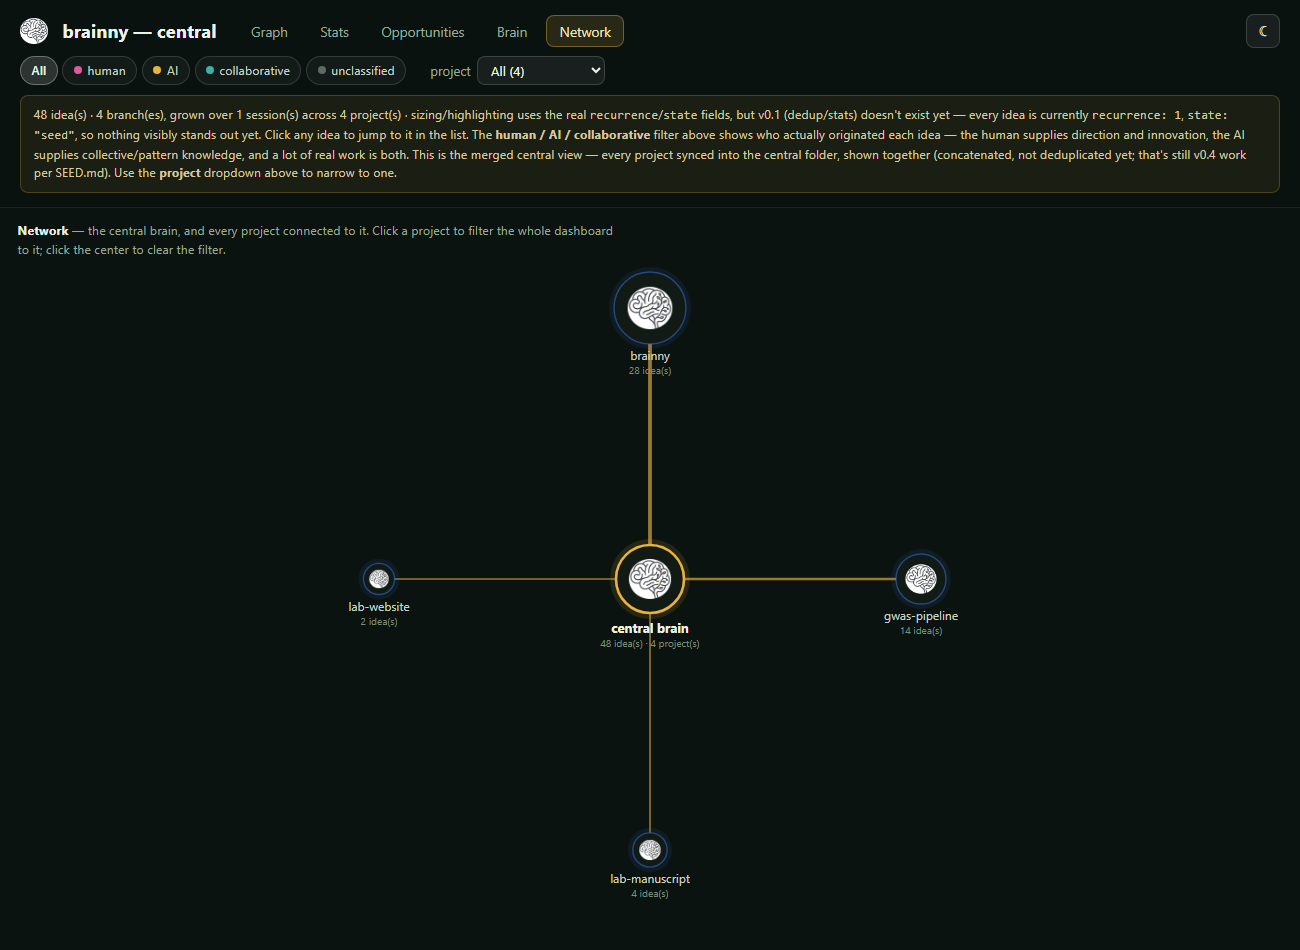
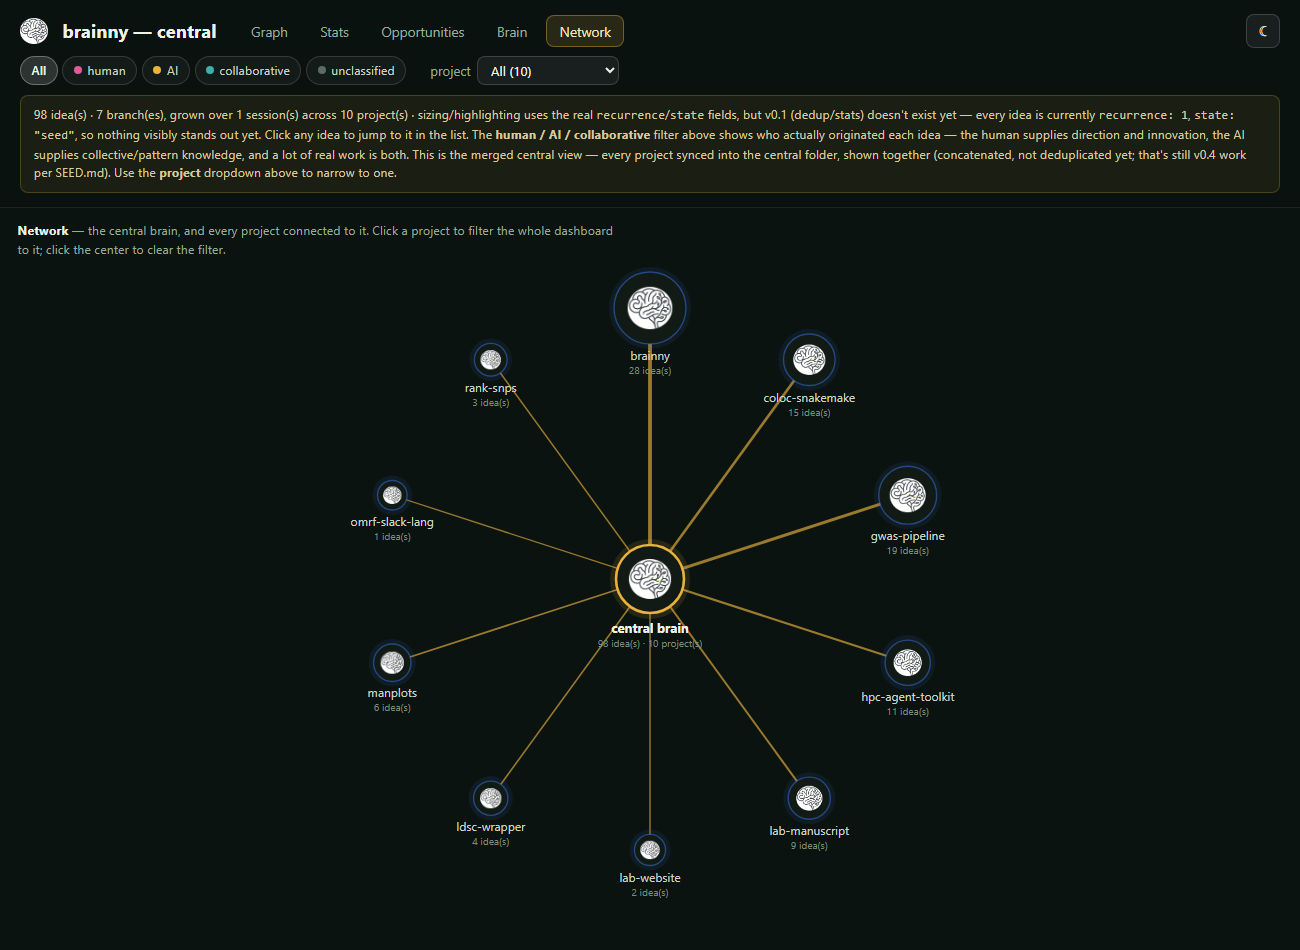
Denser fake central folder for the Network tab README screenshot
4 fabricated projects read as sparse for a README hero shot -- expanded
to 10 (same discipline: built through capture()/build_merged_graph()
directly, never hand-edited JSON) so the screenshot actually shows a
ring of small brains around the hub.

Claude-Session: https://claude.ai/code/session_01KcJMDmAQVvznzGbJzvJt6h

diff --git a/OPERATIONS.md b/OPERATIONS.md
@@ -1059,17 +1059,25 @@ permission-gated local check — see above.
       140 tests total. Verified with headless Chrome against two real
       scenarios: the existing single-project example dataset (correctly
       shows one small brain with a "sync another project to see it join"
-      note), and a genuine 4-project central folder built through the
-      real `capture()`/`build_merged_graph()` functions directly (not
-      the CLI, so no `_sync_to_central` mirroring risk, and confirmed no
-      pollution of the real central folder afterward) -- confirmed
-      node sizing scales with idea count, and confirmed clicking a
-      project node correctly filters the dashboard (dims the other
-      nodes, updates the project dropdown to match, and the merged-view
-      subtitle/counts respond) via an injected click event. This second
-      dataset became `assets/screenshot-network.png` for the README,
-      since the single-project example dataset can't show what this tab
-      is actually for.
+      note), and a genuine multi-project central folder built through
+      the real `capture()`/`build_merged_graph()` functions directly
+      (not the CLI, so no `_sync_to_central` mirroring risk, and
+      confirmed no pollution of the real central folder afterward) --
+      confirmed node sizing scales with idea count, and confirmed
+      clicking a project node correctly filters the dashboard (dims the
+      other nodes, updates the project dropdown to match, and the
+      merged-view subtitle/counts respond) via an injected click event.
+    - README screenshot went through the same two-pass "start small,
+      then user asked for more" refresh step 24's screenshots did: first
+      pass used 4 fabricated projects, which read as sparse for a README
+      hero shot; a follow-up ask ("more sub brains, just for the readme
+      purpose") expanded the same scratch central folder to 10 fabricated
+      projects (still built the same way, `capture()`/
+      `build_merged_graph()` directly, never hand-edited JSON) before
+      re-shooting `assets/screenshot-network.png` -- a denser ring of
+      small brains around the hub, matching the illustrative intent
+      (this dataset was always fabricated-for-the-README, never claimed
+      to be the maintainer's real projects).
 
 Each step should land, get tested, and get dogfooded (per SEED.md §6
 Layer 7) before the next starts — same discipline as the v0 build.

diff --git a/README.md b/README.md
@@ -152,10 +152,10 @@ Click a project to filter the whole dashboard to it (the same filter the
 clear it.
 
 <p align="center">
-  <img src="assets/screenshot-network.png" alt="brAInny dashboard Network tab: a central brain hub in the middle connected to four smaller project brains (brainny, gwas-pipeline, lab-manuscript, lab-website), each sized by its idea count" width="100%">
+  <img src="assets/screenshot-network.png" alt="brAInny dashboard Network tab: a central brain hub in the middle connected to ten smaller project brains of varying sizes, each linked back to the hub and sized by its idea count" width="100%">
 </p>
 
-<p align="center"><sub>Network tab — a separate example central folder with 4 real projects (built through the real CLI, not hand-edited), to actually show more than one brain connected.</sub></p>
+<p align="center"><sub>Network tab — a separate, fabricated example central folder with 10 projects (built by calling brainny's own capture/merge functions directly, not hand-edited JSON), so there's actually enough connected to be worth looking at.</sub></p>
 
 All screenshots (and the preview above), except the Network tab's — that
 one needs more than one project to be worth showing, so it's a separate
